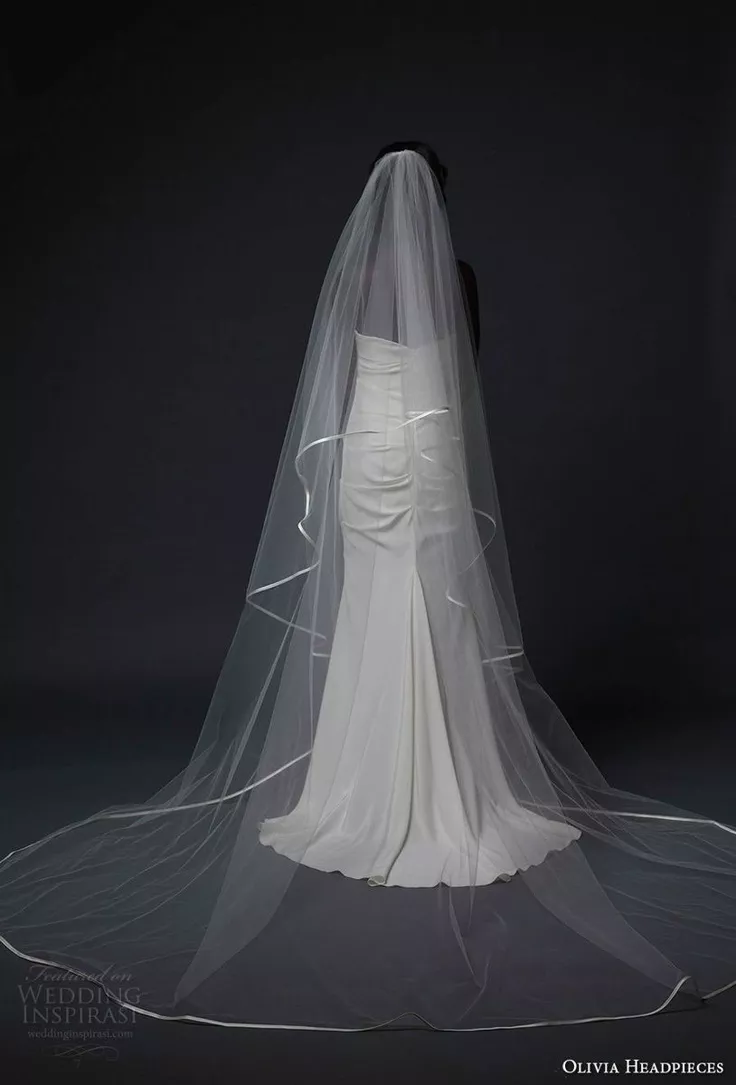
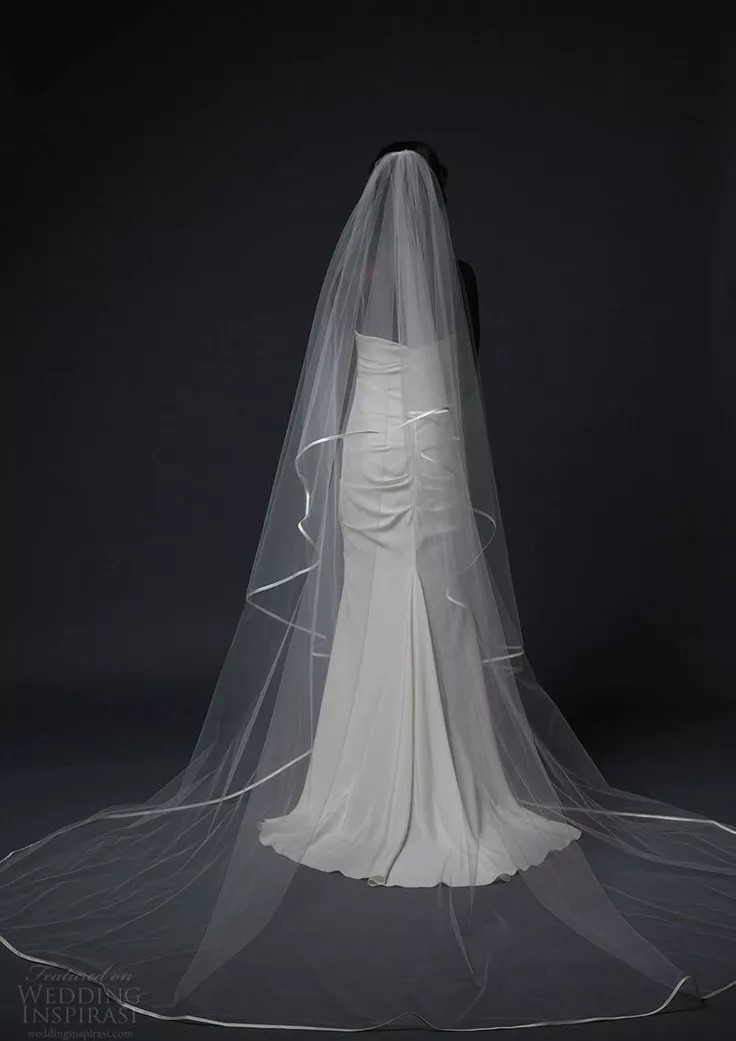
Sapatos atualizados

diff --git a/front-end/JS/modal.js b/front-end/JS/modal.js
@@ -251,14 +251,14 @@ const fotosVeus = {
 
   derby: [
     "https://cdn.shoppub.io/cdn-cgi/image/w=1000,h=1000,q=80,f=auto/enrico/media/uploads/produtos/foto/tumaqudy/sapato-social-derby-sola-de-couro-masculino-preto-boaretto-2.jpg",
-    "https://encrypted-tbn0.gstatic.com/images?q=tbn:ANd9GcQ-4nhH-IW6JD8uN92-6fTnm3RdpWkcoNh1OwqvRrDd9w&s=10",
-    "https://http2.mlstatic.com/D_NQ_NP_887660-MLB110350988891_042026-O-sapato-derby-masculino-social-couro-nobre-natural-legitimo.webp"
+    "https://http2.mlstatic.com/D_NQ_NP_887660-MLB110350988891_042026-O-sapato-derby-masculino-social-couro-nobre-natural-legitimo.webp",
+    "https://encrypted-tbn0.gstatic.com/images?q=tbn:ANd9GcQ-4nhH-IW6JD8uN92-6fTnm3RdpWkcoNh1OwqvRrDd9w&s=10"
   ],
 
   monk_strap: [
-    "https://down-br.img.susercontent.com/file/cn-11134207-7r98o-lsfg3tc435jx15",
-    "https://cdn.shoppub.io/cdn-cgi/image/w=1000,h=1000,q=80,f=auto/manutt/media/uploads/produtos/foto/lenbclup/inserir-um-subtitulo-21.jpg",
-    "https://cdn.shoppub.io/cdn-cgi/image/w=1000,h=1000,q=80,f=auto/villione/media/uploads/produtos/foto/luerbnfw/1000x1000__0010_monk-strap-2.jpg"
+    "https://modamasculinajournal.com.br/wp-content/uploads/2023/01/527fb2be266dcb693d534601c6cbe2c0.png",
+    "https://cdn.shoppub.io/cdn-cgi/image/w=1000,h=1000,q=80,f=auto/villione/media/uploads/produtos/foto/luerbnfw/1000x1000__0010_monk-strap-2.jpg",
+    "https://cdn.shoppub.io/cdn-cgi/image/w=1000,h=1000,q=80,f=auto/manutt/media/uploads/produtos/foto/lenbclup/inserir-um-subtitulo-21.jpg"
   ],
 
   loafer: [
@@ -268,9 +268,9 @@ const fotosVeus = {
   ],
 
   brogue: [
+    "https://pacco.com.br/cdn/shop/files/3000VIN_CHARLES-COM-MODELO-COM-MEIA-SITE.png?v=1772922771&width=1080",
     "https://cdn.shoppub.io/cdn-cgi/image/w=1000,h=1000,q=80,f=auto/enrico/media/uploads/produtos/foto/ohyegyyt/sapato-social-wingtip-derby-brogue-masculino-boaretto-marrom-conhaque-9.jpg",
     "https://cdn.shoppub.io/cdn-cgi/image/w=1000,h=1000,q=80,f=auto/wallford/media/uploads/produtos/foto/uxqsgift/9c0a2c39-0b8b-4486-9fc0-6d7087d6f800.png",
-    "https://img.irroba.com.br/filters:fill(fff):quality(80)/jacomett/catalog/produtos/mch005-preto/mch005-preto-2.jpg"
   ],
 
 

diff --git a/front-end/noivoAcessório.html b/front-end/noivoAcessório.html
@@ -300,7 +300,7 @@
     
     <div class="card" onclick="abrirCard('loafer')">
       <div class="card-image">
-        <img src="./Assets/IMG/sapato loafer.jpg" alt="Lo" style="width: 100%; height: 250px;">
+        <img src="./Assets/IMG/Sapato Loafer.webp" alt="Lo" style="width: 100%; height: 250px;">
       </div>
       <div class="category"> LOAFER </div>
       <div class="heading"> Sapato sem cadarço e de fácil calce,
